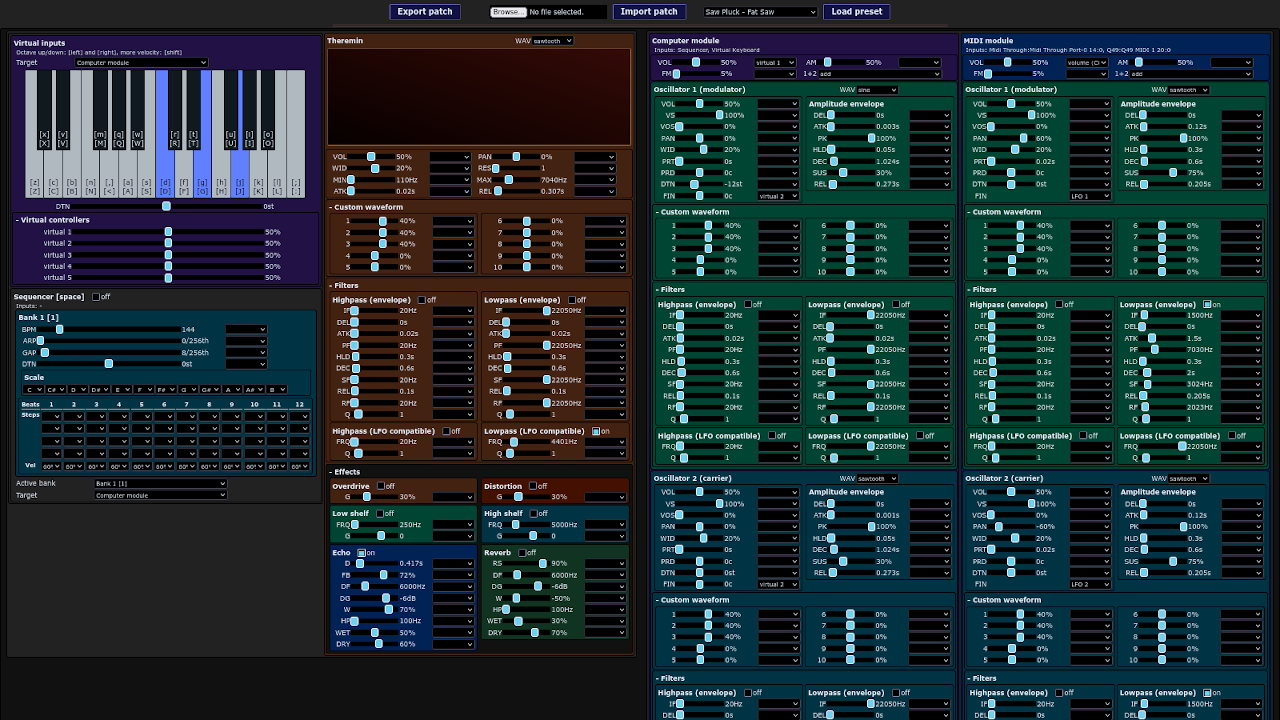
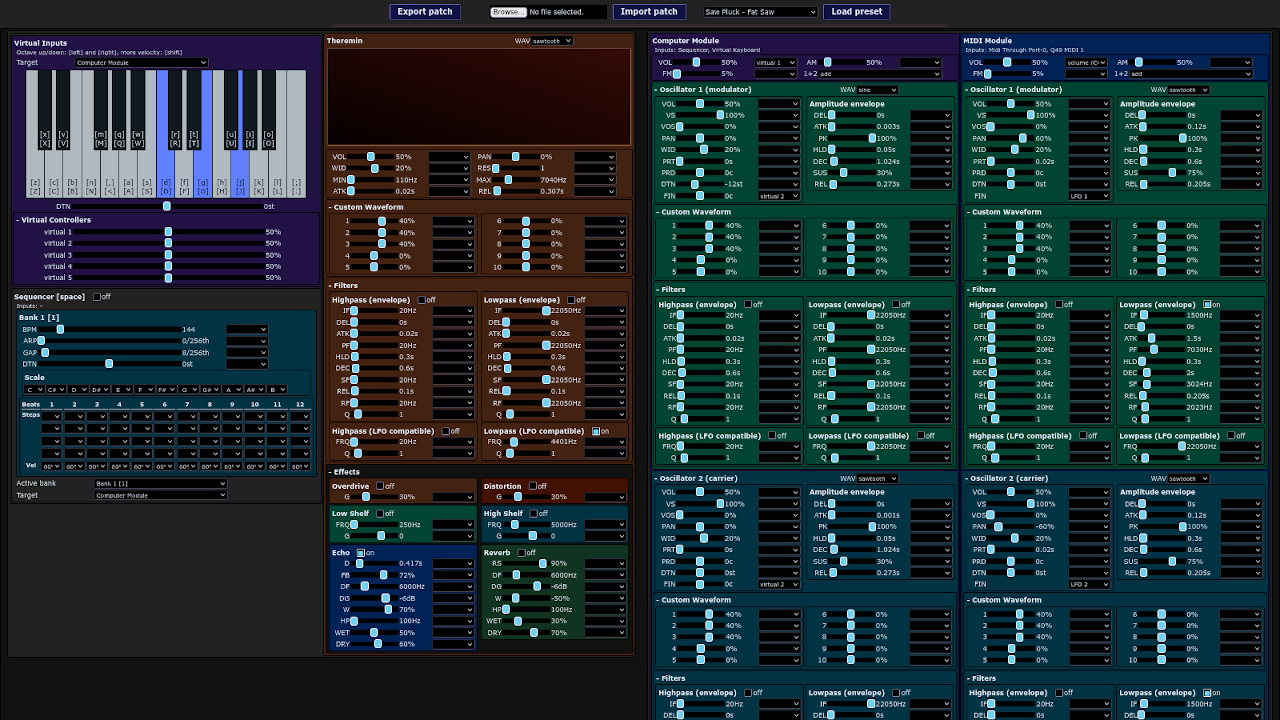
js-80: small UI tweaks

diff --git a/js-80/index.html b/js-80/index.html
@@ -179,7 +179,7 @@ div.group.vertical {
 }
 
 div.group.closed {
-  height: 24px;
+  height: 22px;
   overflow: hidden;
   display: block;
   min-width: 630px;
@@ -200,7 +200,6 @@ div.group.closable > div.name:before {
 #theremin,
 div.module {
   width: 640px;
-  margin: 1px;
 }
 
 div.name,
@@ -225,6 +224,18 @@ div.name {
   min-width: 60%;
 }
 
+#controllers {
+  min-width: 98%;
+}
+
+#controllers > div.group > div.name {
+  width: 99%;
+}
+
+#controllers > div.group.closed {
+  min-width: 99%;
+}
+
 div.lfo div.name {
   width: 70px;
   min-width: auto;
@@ -247,7 +258,8 @@ div.waveform-selector {
   width: 160px;
 }
 
-#controllers > div.group > div.group {
+div.lfo,
+div.mcs {
   width: 310px;
 }
 
@@ -1631,7 +1643,7 @@ div.color-9 { background-color: #410; }
         this.comp_keyboard_target = new EnumParam(
             this,
             "ckb_trg",
-            {"comp": "Computer module", "seq": "Sequencer root note"},
+            {"comp": "Computer Module", "seq": "Sequencer root note"},
             "comp"
         );
         this.comp_keyboard_target.observers.push(this);
@@ -1964,7 +1976,7 @@ div.color-9 { background-color: #410; }
         midi_note_ctl, midi_vel_ctl,
         virt_note_ctl, virt_vel_ctl
     ) {
-        var target = new EnumParam(synth, "sq_trg", {"comp": "Computer module", "midi": "MIDI module"}, "comp"),
+        var target = new EnumParam(synth, "sq_trg", {"comp": "Computer Module", "midi": "MIDI Module"}, "comp"),
             active_bank = new EnumParam(synth, "sq_ab", SEQ_BANKS, "b0"),
             onoff = new OnOffParam(synth, SEQ_ON_OFF_KEY),
             banks = {
@@ -4895,8 +4907,8 @@ div.color-9 { background-color: #410; }
 
     function SynthUI(synth)
     {
-        var midi_module = new VoiceUI("MIDI module", "color-2", "midi-", synth.midi_voice, synth),
-            comp_module = new VoiceUI("Computer module", "color-1", "comp-", synth.comp_voice, synth),
+        var midi_module = new VoiceUI("MIDI Module", "color-2", "midi-", synth.midi_voice, synth),
+            comp_module = new VoiceUI("Computer Module", "color-1", "comp-", synth.comp_voice, synth),
             virtual_modules = new UIWidgetGroup("color-7 horizontal"),
             inputs = new UIWidgetGroup("color-7 vertical"),
             voice_modules = new UIWidgetGroup("color-7 horizontal"),
@@ -4904,11 +4916,14 @@ div.color-9 { background-color: #410; }
             sequencer = new SequencerUI(synth),
             theremin = new ThereminUI(synth.theremin, synth),
             ctls = new NamedUIWidgetGroup("Controllers", "color-7", "controllers"),
-            lfos = new UIWidgetGroup("color-7"),
-            midi_ctl_shapers = new UIWidgetGroup("color-7"),
+            lfos = new ClosableNamedUIWidgetGroup("Low Frequency Oscillators", "color-7", "lfos"),
+            midi_ctl_shapers = new ClosableNamedUIWidgetGroup("MIDI Controller Shapers", "color-7", "mcss"),
             i, l, si, k;
 
         UIWidgetGroup.call(this, "color-0 horizontal");
+
+        lfos.toggle();
+        midi_ctl_shapers.toggle();
 
         synth.observers.push(this);
         synth.comp_keyboard_target.observers.push(this);
@@ -5052,7 +5067,7 @@ div.color-9 { background-color: #410; }
             lfo_lowpass = new LFOCompatibleLowpassUI("", complex_osc.lfo_lowpass_params, synth),
             wav = new SelectUI("WAV", "Waveform", "waveform-selector", complex_osc.waveform, synth);
 
-        NamedUIWidgetGroup.call(this, name, "horizontal oscillator " + class_names, id_attr);
+        ClosableNamedUIWidgetGroup.call(this, name, "horizontal oscillator " + class_names, id_attr);
 
         params.add(new FaderUI("VOL", "Volume", "%", 1000, 10, ALL_CONTROLS, complex_osc.volume, synth));
         params.add(new FaderUI("VS", "Velocity sensitivity", "%", 100, 1, MIDI_CONTROLS, complex_osc.velocity_sensitivity, synth));
@@ -5082,11 +5097,14 @@ div.color-9 { background-color: #410; }
         this.add(amp_env);
         this.add(custom_waveform)
         this.add(filters);
+
+        this.toggle();
     }
 
-    OscillatorUI.prototype.update = NamedUIWidgetGroup.prototype.update;
-    OscillatorUI.prototype.add = NamedUIWidgetGroup.prototype.add;
-    OscillatorUI.prototype.set_description = NamedUIWidgetGroup.prototype.set_description;
+    OscillatorUI.prototype.update = ClosableNamedUIWidgetGroup.prototype.update;
+    OscillatorUI.prototype.add = ClosableNamedUIWidgetGroup.prototype.add;
+    OscillatorUI.prototype.set_description = ClosableNamedUIWidgetGroup.prototype.set_description;
+    OscillatorUI.prototype.toggle = ClosableNamedUIWidgetGroup.prototype.toggle;
 
     function CustomWaveParamsUI(class_names, custom_waveform, synth)
     {
@@ -5095,7 +5113,7 @@ div.color-9 { background-color: #410; }
             group_2 = new UIWidgetGroup("vertical"),
             i, l, n, o, f;
 
-        ClosableNamedUIWidgetGroup.call(this, "Custom waveform", "custom-waveform horizontal " + (class_names || ""));
+        ClosableNamedUIWidgetGroup.call(this, "Custom Waveform", "custom-waveform horizontal " + (class_names || ""));
 
         for (i = 0, l = params.length; i < l; ++i) {
             n = String(i + 1);
@@ -5262,7 +5280,7 @@ div.color-9 { background-color: #410; }
             max = new FaderUI("MAX", "Maximum value", "%", 10000, 100, MIDI_CONTROLS, midi_ctl_shaper_ctl.max, synth),
             rnd = new FaderUI("RND", "Randomness", "%", 10000, 100, MIDI_CONTROLS, midi_ctl_shaper_ctl.rnd, synth);
 
-        NamedUIWidgetGroup.call(this, name, "horizontal color-6");
+        NamedUIWidgetGroup.call(this, name, "horizontal mcs color-6");
 
         this.dom_node.setAttribute("title", "MIDI Controller Shaper");
 
@@ -5608,11 +5626,11 @@ div.color-9 { background-color: #410; }
     function VirtualControlsUI(synth)
     {
         var keyboard = document.createElement("div"),
-            virt_ctls = new ClosableNamedUIWidgetGroup("Virtual controllers"),
+            virt_ctls = new ClosableNamedUIWidgetGroup("Virtual Controllers"),
             virt_keys = {},
             i, l, virt_key, key_desc, dom_node;
 
-        NamedUIWidgetGroup.call(this, "Virtual inputs", "module color-1", "virt-inputs");
+        NamedUIWidgetGroup.call(this, "Virtual Inputs", "module color-1", "virt-inputs");
 
         this.set_description("Octave up/down: [left] and [right], more velocity: [shift]");
 
@@ -5973,8 +5991,8 @@ div.color-9 { background-color: #410; }
 
         effects.add(new DistortionUI("Overdrive", "vertical color-8", theremin.effects.overdrive, synth));
         effects.add(new DistortionUI("Distortion", "vertical color-9", theremin.effects.distortion, synth));
-        effects.add(new ShelfFilterUI("Low shelf", "vertical color-4", theremin.effects.low_shelf, synth));
-        effects.add(new ShelfFilterUI("High shelf", "vertical color-3", theremin.effects.high_shelf, synth));
+        effects.add(new ShelfFilterUI("Low Shelf", "vertical color-4", theremin.effects.low_shelf, synth));
+        effects.add(new ShelfFilterUI("High Shelf", "vertical color-3", theremin.effects.high_shelf, synth));
         effects.add(new EchoUI(synth, theremin.effects.echo));
         effects.add(new ReverbUI(synth, theremin.effects.reverb));
 

diff --git a/js-80/src/js-80.js b/js-80/src/js-80.js
@@ -855,7 +855,7 @@
         this.comp_keyboard_target = new EnumParam(
             this,
             "ckb_trg",
-            {"comp": "Computer module", "seq": "Sequencer root note"},
+            {"comp": "Computer Module", "seq": "Sequencer root note"},
             "comp"
         );
         this.comp_keyboard_target.observers.push(this);
@@ -1188,7 +1188,7 @@
         midi_note_ctl, midi_vel_ctl,
         virt_note_ctl, virt_vel_ctl
     ) {
-        var target = new EnumParam(synth, "sq_trg", {"comp": "Computer module", "midi": "MIDI module"}, "comp"),
+        var target = new EnumParam(synth, "sq_trg", {"comp": "Computer Module", "midi": "MIDI Module"}, "comp"),
             active_bank = new EnumParam(synth, "sq_ab", SEQ_BANKS, "b0"),
             onoff = new OnOffParam(synth, SEQ_ON_OFF_KEY),
             banks = {
@@ -4119,8 +4119,8 @@
 
     function SynthUI(synth)
     {
-        var midi_module = new VoiceUI("MIDI module", "color-2", "midi-", synth.midi_voice, synth),
-            comp_module = new VoiceUI("Computer module", "color-1", "comp-", synth.comp_voice, synth),
+        var midi_module = new VoiceUI("MIDI Module", "color-2", "midi-", synth.midi_voice, synth),
+            comp_module = new VoiceUI("Computer Module", "color-1", "comp-", synth.comp_voice, synth),
             virtual_modules = new UIWidgetGroup("color-7 horizontal"),
             inputs = new UIWidgetGroup("color-7 vertical"),
             voice_modules = new UIWidgetGroup("color-7 horizontal"),
@@ -4128,11 +4128,14 @@
             sequencer = new SequencerUI(synth),
             theremin = new ThereminUI(synth.theremin, synth),
             ctls = new NamedUIWidgetGroup("Controllers", "color-7", "controllers"),
-            lfos = new UIWidgetGroup("color-7"),
-            midi_ctl_shapers = new UIWidgetGroup("color-7"),
+            lfos = new ClosableNamedUIWidgetGroup("Low Frequency Oscillators", "color-7", "lfos"),
+            midi_ctl_shapers = new ClosableNamedUIWidgetGroup("MIDI Controller Shapers", "color-7", "mcss"),
             i, l, si, k;
 
         UIWidgetGroup.call(this, "color-0 horizontal");
+
+        lfos.toggle();
+        midi_ctl_shapers.toggle();
 
         synth.observers.push(this);
         synth.comp_keyboard_target.observers.push(this);
@@ -4276,7 +4279,7 @@
             lfo_lowpass = new LFOCompatibleLowpassUI("", complex_osc.lfo_lowpass_params, synth),
             wav = new SelectUI("WAV", "Waveform", "waveform-selector", complex_osc.waveform, synth);
 
-        NamedUIWidgetGroup.call(this, name, "horizontal oscillator " + class_names, id_attr);
+        ClosableNamedUIWidgetGroup.call(this, name, "horizontal oscillator " + class_names, id_attr);
 
         params.add(new FaderUI("VOL", "Volume", "%", 1000, 10, ALL_CONTROLS, complex_osc.volume, synth));
         params.add(new FaderUI("VS", "Velocity sensitivity", "%", 100, 1, MIDI_CONTROLS, complex_osc.velocity_sensitivity, synth));
@@ -4306,11 +4309,14 @@
         this.add(amp_env);
         this.add(custom_waveform)
         this.add(filters);
+
+        this.toggle();
     }
 
-    OscillatorUI.prototype.update = NamedUIWidgetGroup.prototype.update;
-    OscillatorUI.prototype.add = NamedUIWidgetGroup.prototype.add;
-    OscillatorUI.prototype.set_description = NamedUIWidgetGroup.prototype.set_description;
+    OscillatorUI.prototype.update = ClosableNamedUIWidgetGroup.prototype.update;
+    OscillatorUI.prototype.add = ClosableNamedUIWidgetGroup.prototype.add;
+    OscillatorUI.prototype.set_description = ClosableNamedUIWidgetGroup.prototype.set_description;
+    OscillatorUI.prototype.toggle = ClosableNamedUIWidgetGroup.prototype.toggle;
 
     function CustomWaveParamsUI(class_names, custom_waveform, synth)
     {
@@ -4319,7 +4325,7 @@
             group_2 = new UIWidgetGroup("vertical"),
             i, l, n, o, f;
 
-        ClosableNamedUIWidgetGroup.call(this, "Custom waveform", "custom-waveform horizontal " + (class_names || ""));
+        ClosableNamedUIWidgetGroup.call(this, "Custom Waveform", "custom-waveform horizontal " + (class_names || ""));
 
         for (i = 0, l = params.length; i < l; ++i) {
             n = String(i + 1);
@@ -4486,7 +4492,7 @@
             max = new FaderUI("MAX", "Maximum value", "%", 10000, 100, MIDI_CONTROLS, midi_ctl_shaper_ctl.max, synth),
             rnd = new FaderUI("RND", "Randomness", "%", 10000, 100, MIDI_CONTROLS, midi_ctl_shaper_ctl.rnd, synth);
 
-        NamedUIWidgetGroup.call(this, name, "horizontal color-6");
+        NamedUIWidgetGroup.call(this, name, "horizontal mcs color-6");
 
         this.dom_node.setAttribute("title", "MIDI Controller Shaper");
 
@@ -4832,11 +4838,11 @@
     function VirtualControlsUI(synth)
     {
         var keyboard = document.createElement("div"),
-            virt_ctls = new ClosableNamedUIWidgetGroup("Virtual controllers"),
+            virt_ctls = new ClosableNamedUIWidgetGroup("Virtual Controllers"),
             virt_keys = {},
             i, l, virt_key, key_desc, dom_node;
 
-        NamedUIWidgetGroup.call(this, "Virtual inputs", "module color-1", "virt-inputs");
+        NamedUIWidgetGroup.call(this, "Virtual Inputs", "module color-1", "virt-inputs");
 
         this.set_description("Octave up/down: [left] and [right], more velocity: [shift]");
 
@@ -5197,8 +5203,8 @@
 
         effects.add(new DistortionUI("Overdrive", "vertical color-8", theremin.effects.overdrive, synth));
         effects.add(new DistortionUI("Distortion", "vertical color-9", theremin.effects.distortion, synth));
-        effects.add(new ShelfFilterUI("Low shelf", "vertical color-4", theremin.effects.low_shelf, synth));
-        effects.add(new ShelfFilterUI("High shelf", "vertical color-3", theremin.effects.high_shelf, synth));
+        effects.add(new ShelfFilterUI("Low Shelf", "vertical color-4", theremin.effects.low_shelf, synth));
+        effects.add(new ShelfFilterUI("High Shelf", "vertical color-3", theremin.effects.high_shelf, synth));
         effects.add(new EchoUI(synth, theremin.effects.echo));
         effects.add(new ReverbUI(synth, theremin.effects.reverb));
 

diff --git a/js-80/src/js-80.css b/js-80/src/js-80.css
@@ -161,7 +161,7 @@ div.group.vertical {
 }
 
 div.group.closed {
-  height: 24px;
+  height: 22px;
   overflow: hidden;
   display: block;
   min-width: 630px;
@@ -182,7 +182,6 @@ div.group.closable > div.name:before {
 #theremin,
 div.module {
   width: 640px;
-  margin: 1px;
 }
 
 div.name,
@@ -207,6 +206,18 @@ div.name {
   min-width: 60%;
 }
 
+#controllers {
+  min-width: 98%;
+}
+
+#controllers > div.group > div.name {
+  width: 99%;
+}
+
+#controllers > div.group.closed {
+  min-width: 99%;
+}
+
 div.lfo div.name {
   width: 70px;
   min-width: auto;
@@ -229,7 +240,8 @@ div.waveform-selector {
   width: 160px;
 }
 
-#controllers > div.group > div.group {
+div.lfo,
+div.mcs {
   width: 310px;
 }
 
